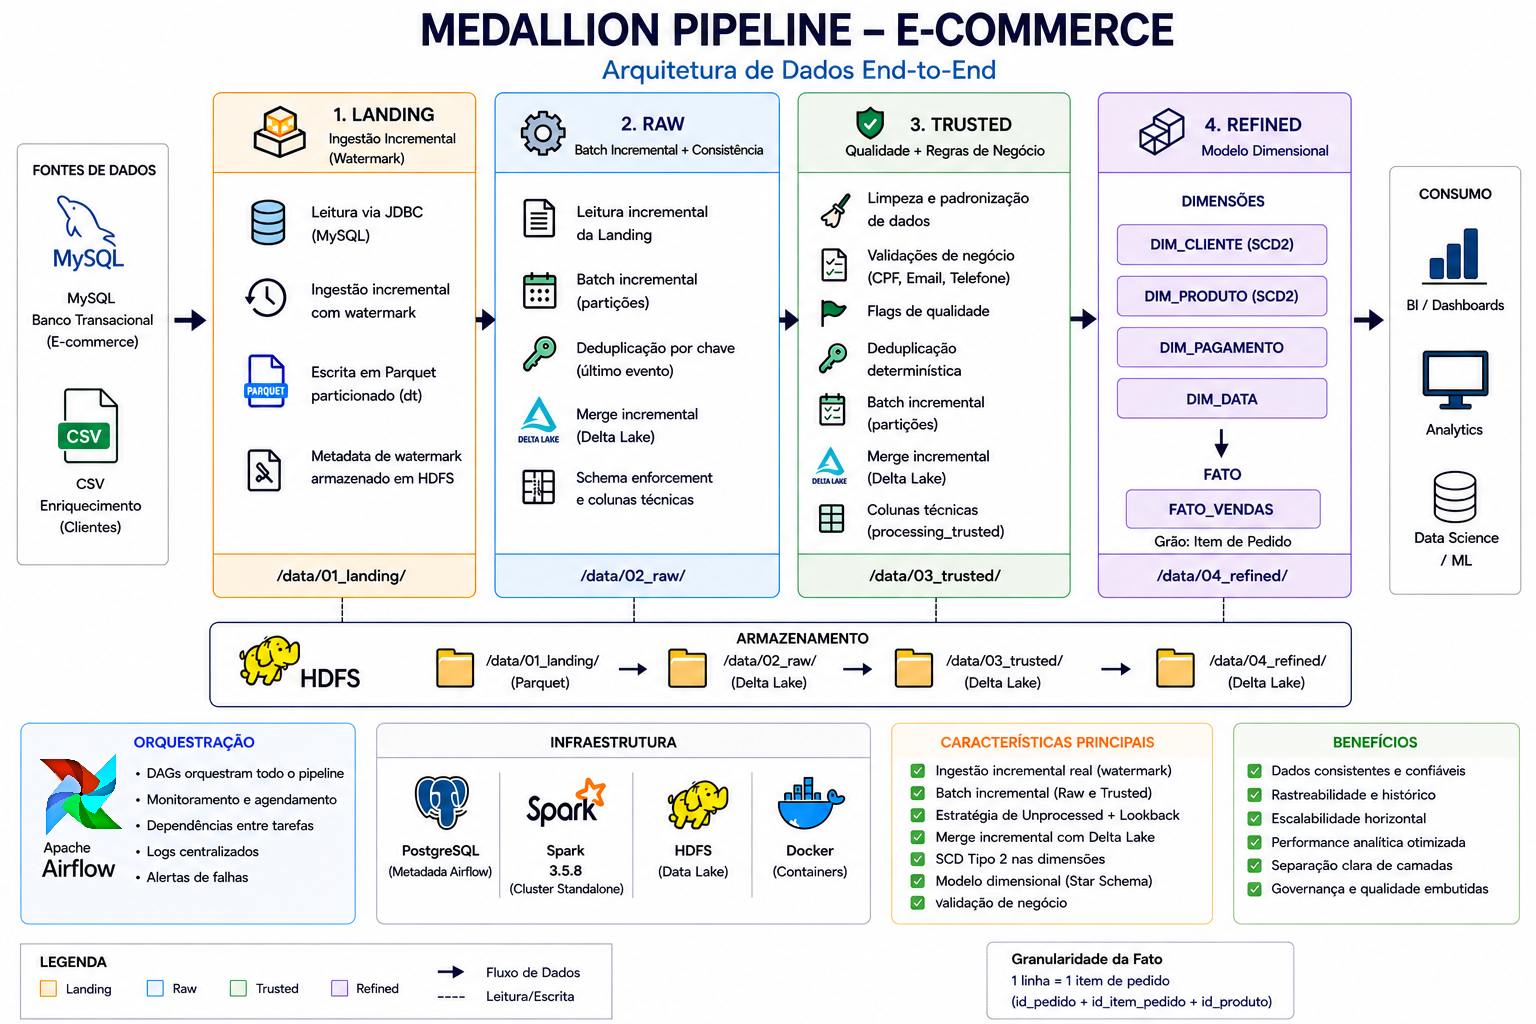
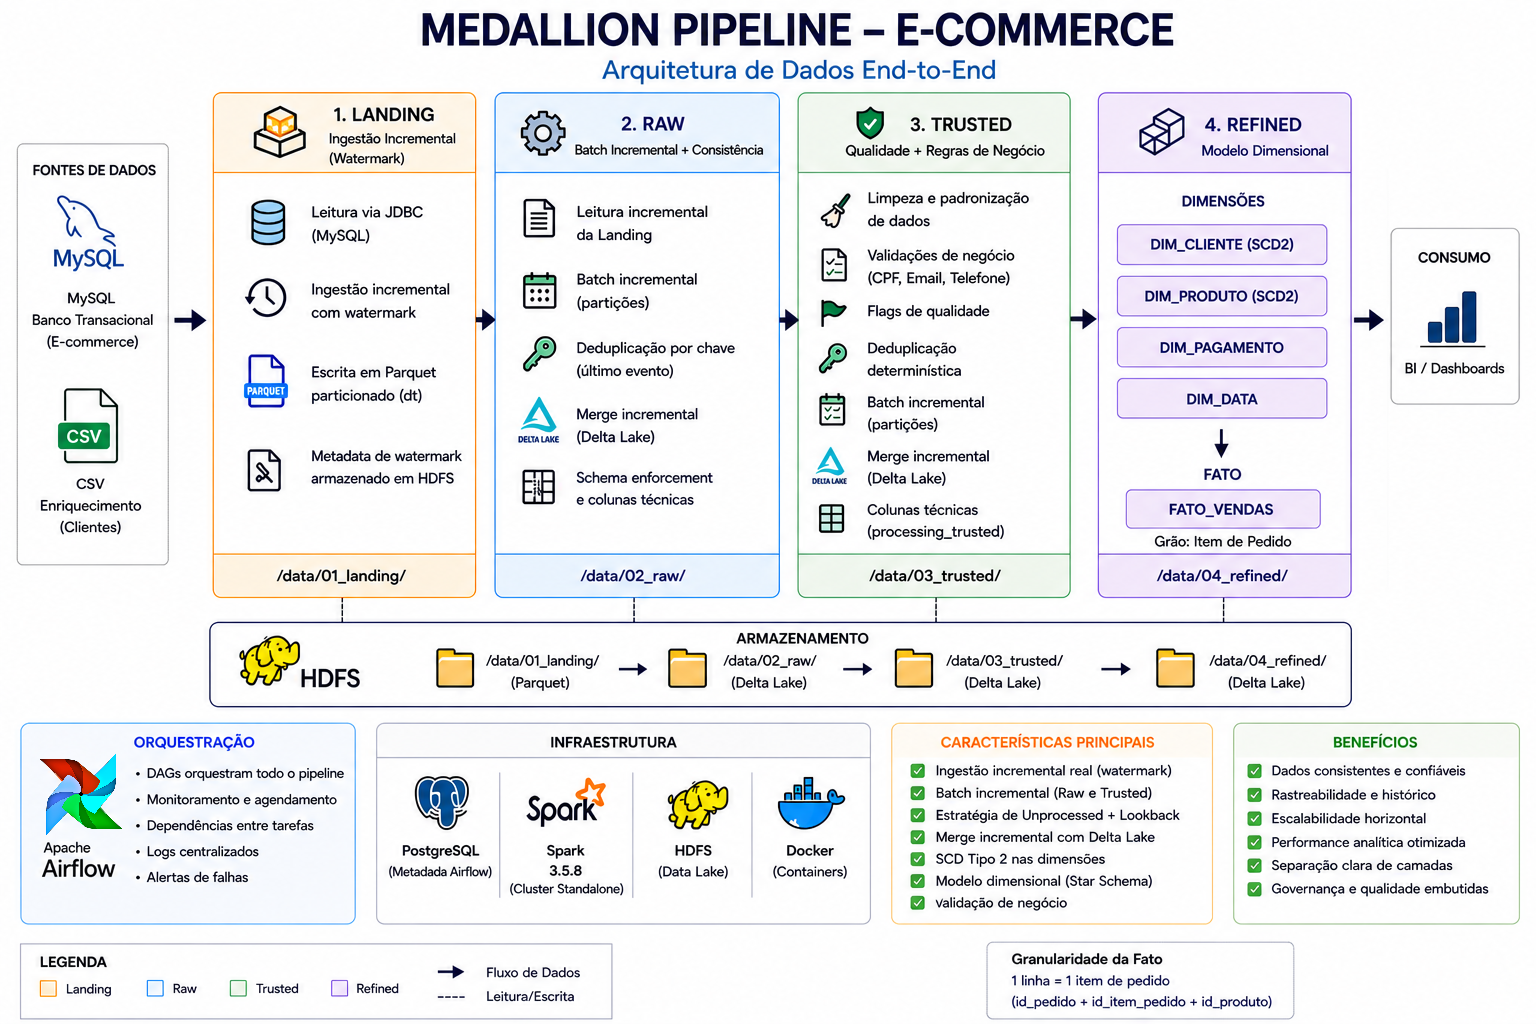
docs: update architecture documentation and diagram

Changed region(s): [[0.9062, 0.1562, 1.0, 0.4375], [0.9062, 0.4688, 0.9688, 0.5625]]

diff --git a/docs/architecture.md b/docs/architecture.md
@@ -411,20 +411,6 @@ A arquitetura foi desenhada visando escalabilidade horizontal.
 
 ---
 
-# ⚖️ Tradeoffs Arquiteturais
-
-## Spark Standalone vs Kubernetes
-
-Spark Standalone foi escolhido por:
-
-- Menor complexidade operacional
-- Facilidade de desenvolvimento local
-- Simplicidade de configuração
-
-Kubernetes seria mais adequado para ambientes de produção em larga escala.
-
----
-
 ## Batch Incremental vs Streaming
 
 Batch incremental foi escolhido por:
@@ -447,44 +433,6 @@ Streaming seria indicado para cenários near real-time.
 | SCD Tipo 2 | Histórico de entidades |
 | Star Schema | Performance analítica |
 | Docker Compose | Reprodutibilidade |
-
----
-
-# 🚀 Evoluções Futuras
-
-## Engenharia de Dados
-
-- Metadata-driven pipelines
-- Dynamic DAG generation
-- Config-driven pipelines
-- CI/CD
-
----
-
-## Observabilidade
-
-- Métricas centralizadas
-- Alertas
-- Dashboards operacionais
-- Logging estruturado
-
----
-
-## Data Quality
-
-- Great Expectations
-- Data contracts
-- Testes automatizados
-- Quality monitoring
-
----
-
-## Infraestrutura
-
-- Kubernetes
-- Spark on Kubernetes
-- Airflow Celery/Kubernetes Executor
-- Object Storage
 
 ---
 

diff --git a/README.md b/README.md
@@ -291,19 +291,6 @@ A documentação técnica do projeto foi separada por responsabilidade para faci
 | `docs/project_structure.md` | Organização estrutural do projeto, separação por camadas, DAGs, jobs Spark e componentes da infraestrutura |
 | `docs/decisions.md` | Registro das principais decisões arquiteturais (ADRs), incluindo motivações, benefícios e tradeoffs técnicos |
 
----
-
-# 🚀 Evoluções Futuras
-
-- Great Expectations
-- Metadata-driven pipelines
-- Kubernetes Executor
-- Camada de Serving
-- Observabilidade avançada
-- Testes automatizados
-- CI/CD
-
----
 
 # 🎯 Objetivo
 